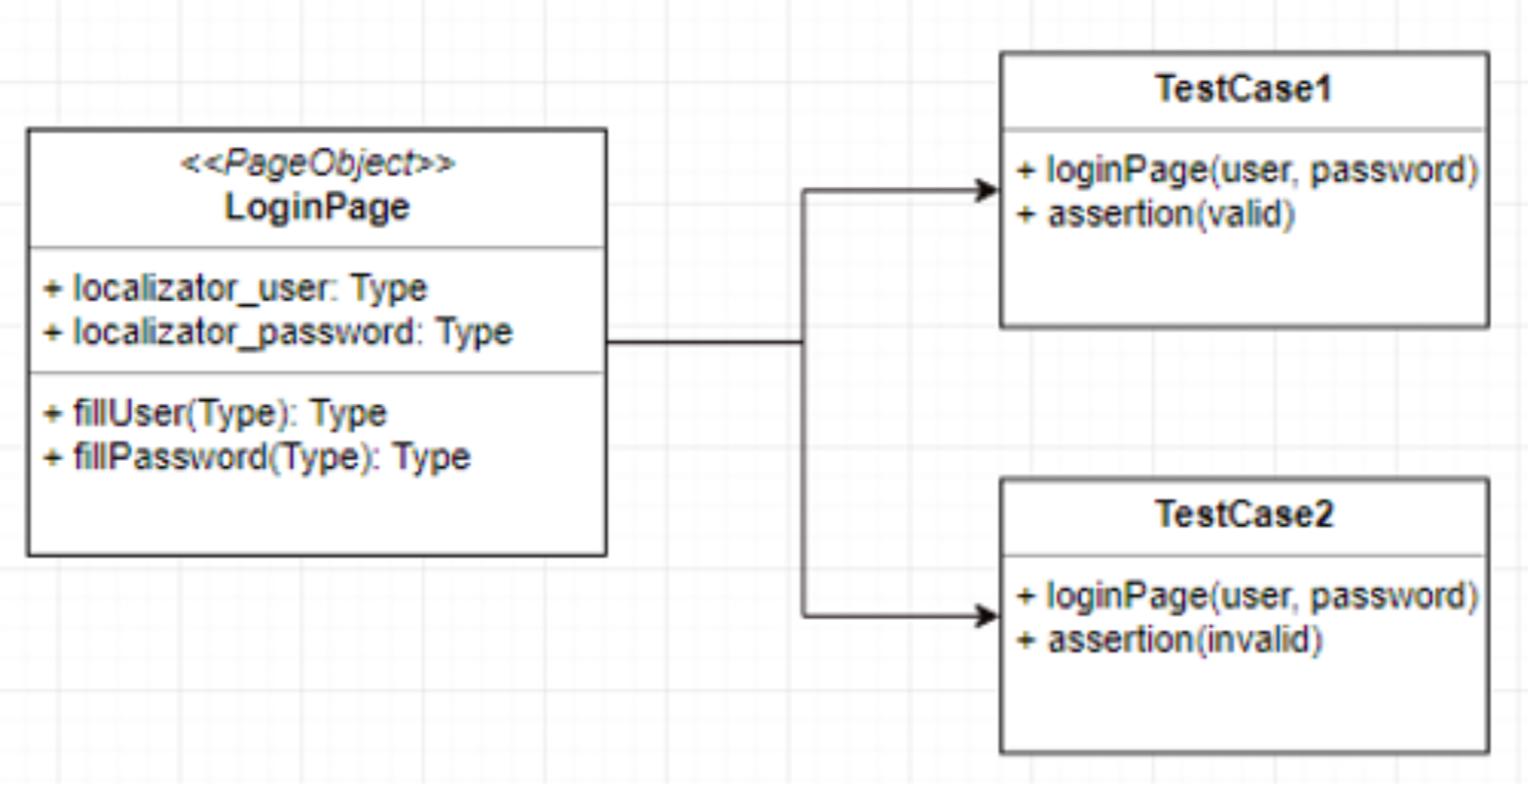
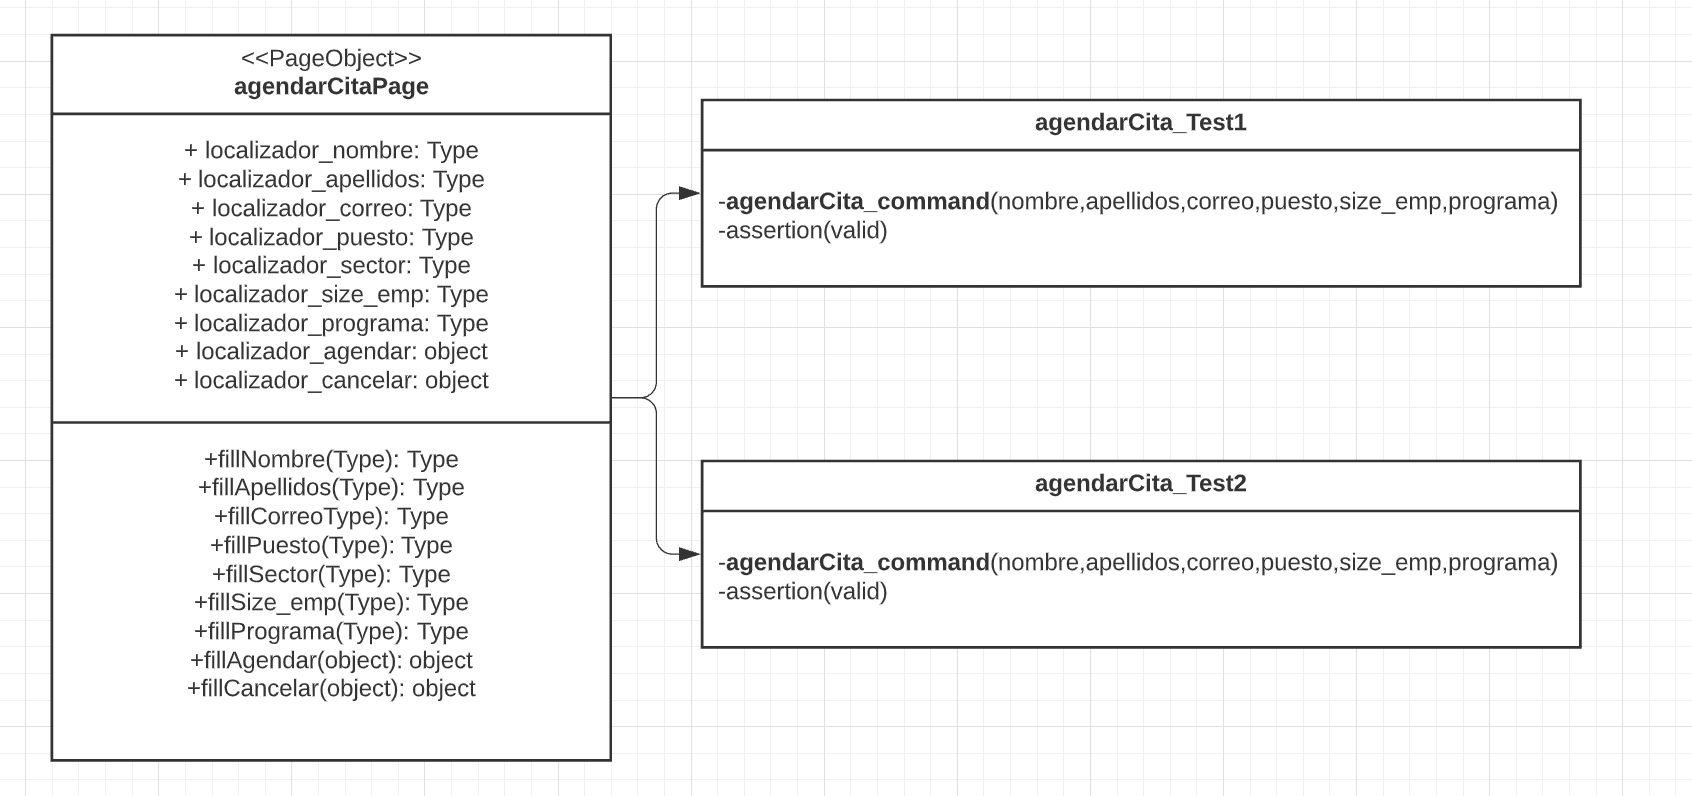
update README.md

Changed region(s): [[0.0, 0.0302, 0.9843, 0.9648], [0.0308, 0.9347, 0.3691, 0.9648]]

diff --git a/Sesion-03/Ejemplo-02/README.md b/Sesion-03/Ejemplo-02/README.md
@@ -23,9 +23,12 @@ Al igual que en el tema anterior, explicaremos los tipos de patrones teniendo en
 - `Resultado`: al cambiar un elemento web se actualiza solo en la clase de localizadores y no en todos los tests.
 
 
-Observa el siguiente ejemplo del diagrama de clase de la implementación del patrón POM:
+Observa el siguiente ejemplo del diagrama de clase de la implementación del patrón `Page Object Model (POM)` en la funcionalidad de `Agendar Asesoría` de la pagina web de BEDU (https://bedu.org/)::
 
+<img src="assets/agendar_cita.png" width="80%"> :
 <img src="assets/diagrama_pom.png" width="80%"> 
+
+
 
 > Acá se tiene la clase `LoginPage` con los localizadores y acciones de la página de login. Luego se definen los `test`, los cuales invocan el método de `loginPage` enviando los parámetros del escenario de prueba.
 
